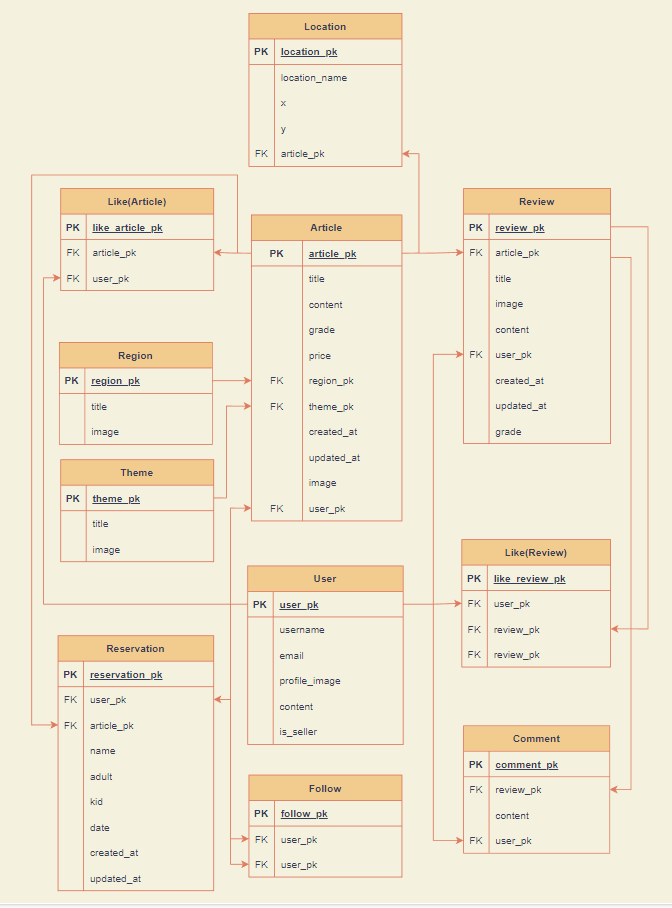
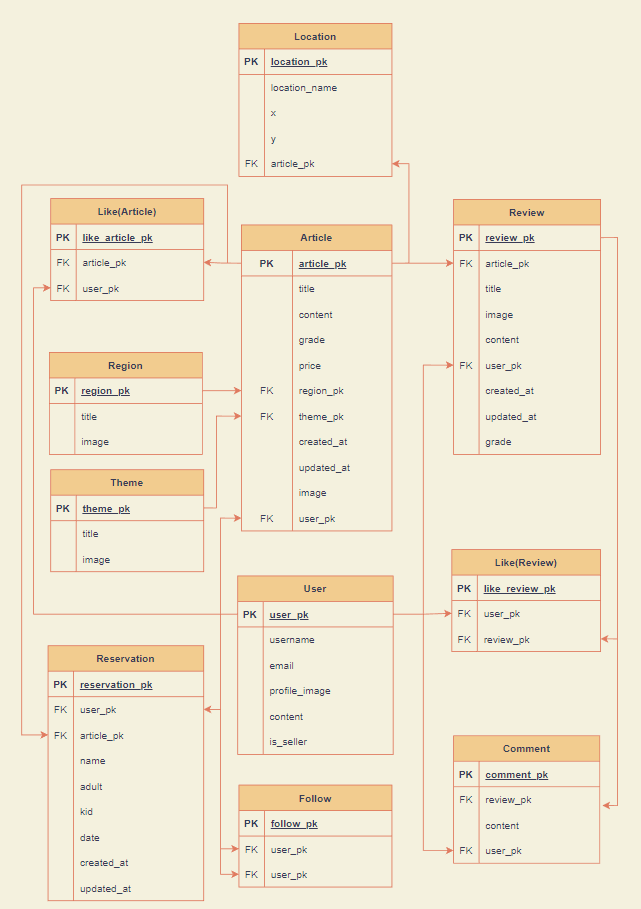
edit README

Changed region(s): [[0.0, 0.0, 1.0, 1.0], [0.9048, 0.9251, 0.936, 0.9559]]

diff --git a/README.md b/README.md
@@ -1,47 +1,128 @@
-# semi_pjt2
+# 세미 프로젝트 2
 
-## 서비스 화면
+![image-20221123132920976](README.assets/image-20221123132920976.png)
 
-[github](https://github.com/wnsghd14/semi_pjt2)
-[배포사이트](http://tripstar-env.eba-rvqec9xz.ap-northeast-2.elasticbeanstalk.com/)
+- [TripStar github](https://github.com/wnsghd14/semi_pjt2)
+- [TripStar (배포 사이트)](http://tripstar-env.eba-rvqec9xz.ap-northeast-2.elasticbeanstalk.com/)
 
-## 서비스 이름 : TRIPSTAR
+## ⭐ TRIPSTAR
 
-### 서비스 소개 : 대한민국 팔도 여행 아이템 추천 및 판매
+### 서비스 소개
 
-### 제작 기간 : 2022-11-09 ~ 2022-11-22
+- 대한민국 팔도 여행 아이템 추천 및 판매
 
-### 팀 구성 : 최준홍(프론트엔드), 백동원(프론트엔드), 김재형(백엔드), 김수빈(프론트엔드), 김지연(백엔드)
+### 서비스 제작 기간
 
-### 
+- 2022-11-09 ~ 2022-11-22
 
-⚙ Stack
+## 🔖 Table of Contents
+
+- Contributors
+- 기술 스택
+- 팀원 소개 및 담당 역할
+- 주요 기능 소개
+- 화면 구성
+- 프로젝트 후기
+
+## 👨👩👧👦 Contibutors
+
+- 최준홍
+
+[wnsghd14 - Overview](https://github.com/wnsghd14)
+
+- 백동원
+
+[dongwonbaek - Overview](https://github.com/dongwonbaek)
+
+- 김수빈
+
+[buzzzlight - Overview](https://github.com/buzzzlight)
+
+- 김재형
+
+[jhkim9028 - Overview](https://github.com/jhkim9028)
+
+- 김지연
+
+[jn-97 - Overview](https://github.com/jn-97)
+
+## ⚙ Stack
 
 <img src="https://img.shields.io/badge/Python-3776AB?style=flat-square&logo=Python&logoColor=ffffff"/> <img src="https://img.shields.io/badge/Django-092E20?style=flat-square&logo=Django&logoColor=ffffff"/> <img src="https://img.shields.io/badge/HTML5-E34F26?style=flat-square&logo=HTML5&logoColor=ffffff"/> <img src="https://img.shields.io/badge/CSS3-1572B6?style=flat-square&logo=CSS3&logoColor=ffffff"/> <img src="https://img.shields.io/badge/Bootstrap-7952B3?style=flat-square&logo=Bootstrap&logoColor=ffffff"/> <img src="https://img.shields.io/badge/Visual Studio Code-007ACC?style=flat-square&logo=Visual Studio Code&logoColor=ffffff"/> <img src="https://img.shields.io/badge/Git-F05032?style=flat-square&logo=Git&logoColor=ffffff"/> <img src="https://img.shields.io/badge/GitHub-181717?style=flat-square&logo=GitHub&logoColor=ffffff"/> <img src="https://img.shields.io/badge/JavaScript-F7DF1E?style=flat-square&logo=JavaScript&logoColor=ffffff"/>
+
+## 🧑🏼💻 팀원 소개 및 담당 역할
+
+- 최준홍
+
+  👩💻팀장(Full-Stack)/ ⇒ articles:comments/ accounts:front-end/ chatbot/ front-end/ calender/ nav-bar/ event_page/ reset_password/ page_grid
+
+- 김수빈
+
+  👩💻팀원(Full-Stack) ⇒ articles:reviews/ articles:likes/ articles:images/ articles:reservation/ social_login/ reset_password/ page_grid
+
+- 백동원
+
+  👩💻발표자(Full-Stack) ⇒ accounts:follow/ articles:search/ region/ theme/ front-end/ recent_articles/ best_articles/ page_grid
+
+- 김재형
+
+  👩💻팀원(Full-Stack) ⇒ articles:articles/ cart:pay/ servicecenter/ region_index/ kakaomap_api/ front-end/ page_grid
+
+- 김지연
+
+  👩💻팀원(Full-Stack) ⇒ accounts:login,signup,logout etc../ cart:pay/ favicon/ login_signup design/ page_grid
+
+## 🖥 주요기능
+
+- 상품, 리뷰, 회원 CRUD, 비밀번호찾기
+- 상품 좋아요, 리뷰 좋아요, 유저 별 팔로우 기능
+- 지역과 테마를 기준으로 상품 분류
+- 카카오 페이 데모결제, daterangepicker
+- 소셜로그인
+- 챗봇
+- 상품별, 리뷰별, 유저별 검색내용 세분화
+- 모바일 맞춤 반응형 웹
+- 이벤트 페이지 미니게임(JS)
+- 고객센터
+- 리뷰모음 페이지
+- 최근 본 상품과 베스트 상품
+- 카카오 맵 api 사용
 
 ## 프로젝트 자료
 
 [14팀. 트립스타](https://www.notion.so/14-ce358022f6fd4e30bdb5d7a93f4e5966) 
 
-## 화면구성
+## 기획 단계
 
-### ERD 설계
+### ERD Model 설계
 
-<img src ="README.assets/ERD.png" width="600" height="338"/>
+<img src ="README.assets/ERD.png" width="600" height="700"/>
 
-### Figma 설계
+### Template 설계
 
 <img src ="README.assets/화면설계(Figma).png" width="600" height="338"/>
 
-### 서비스 화면
+## 화면 구성
 
-![ezgif.com-gif-maker](README.assets/ezgif.com-gif-maker.gif)
+### 서비스 화면 전반
+
+<img src ="README.assets/ezgif.com-gif-maker.gif" width="600" height="338"/>
+
+### 로그인 페이지
+
+<img src ="README.assets/로그인.gif" width="600" height="338"/>
+
+### 메인 화면
+
+<img src ="README.assets/메인화면(TripStar).gif" width="600" height="338"/>
+
+### 상품 상세 - 리뷰, 예약, 결제
+
+<img src ="README.assets/article_detail.gif" width="600" height="338"/>
 
 <img src ="README.assets/pay.gif" width="600" height="338"/>
 
-
-
-![article_detail](README.assets/article_detail.gif)
+### 리뷰 모음 및 이벤트
 
 <img title="" src="assets/3083e225089cbf2b8d42a3388890b3ae12fcccbe.gif" alt="" data-align="inline" width="597">
 
@@ -49,33 +130,33 @@
 
 ### 모바일 반응형 페이지
 
-#### 메인 페이지
+#### 메인
 
 <img src ="README.assets/모바일-메인페이지.png" width="700" height="350"/>
 
-#### 상품 상세페이지
+#### 상품 상세
 
 <img src ="README.assets/모바일-디테일.png" width="700" height="350"/>
 
-#### 예약 및 결제 페이지
+#### 예약 및 결제
 
 <img src ="README.assets/모바일-예약결제.png" width="1000" height="350"/>
 
-#### 리뷰모음 및 이벤트 페이지
+#### 리뷰모음 및 이벤트
 
 <img src ="README.assets/모바일-리뷰모음및이벤트.png" width="700" height="350"/>
 
-#### 검색 및 문의 페이지
+#### 검색 및 문의
 
 <img src ="README.assets/모바일-검색및문의.png" width="1000" height="350"/>
 
 
 
-### 개발 이슈
+## 개발 이슈
 
 <img src="assets/d477574356fbfceeeadd0ab926df6b8a87a641f0.PNG" title="" alt="" width="602">
 
-## 프로젝트 후기
+## 🌕 프로젝트 후기
 
 - 김지연
   - 이번 프로젝트를 진행하면서 세미 프로젝트를 진행했을 때보다 규모가 커지면서 생기는 오류들이 많았지만, 그 오류들을 하나하나 다 같이 해결해나감에 있어서 뿌듯하고 한층 성장한 느낌이 들었습니다.
